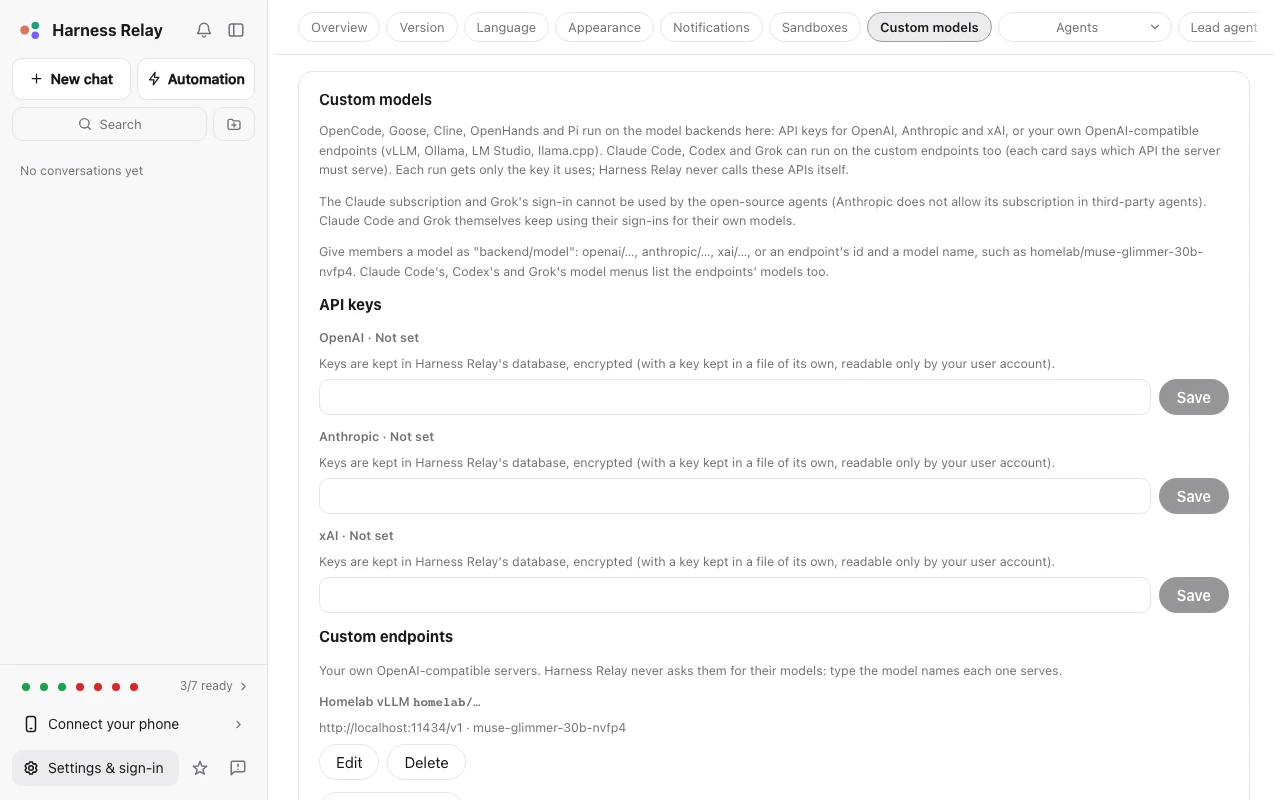
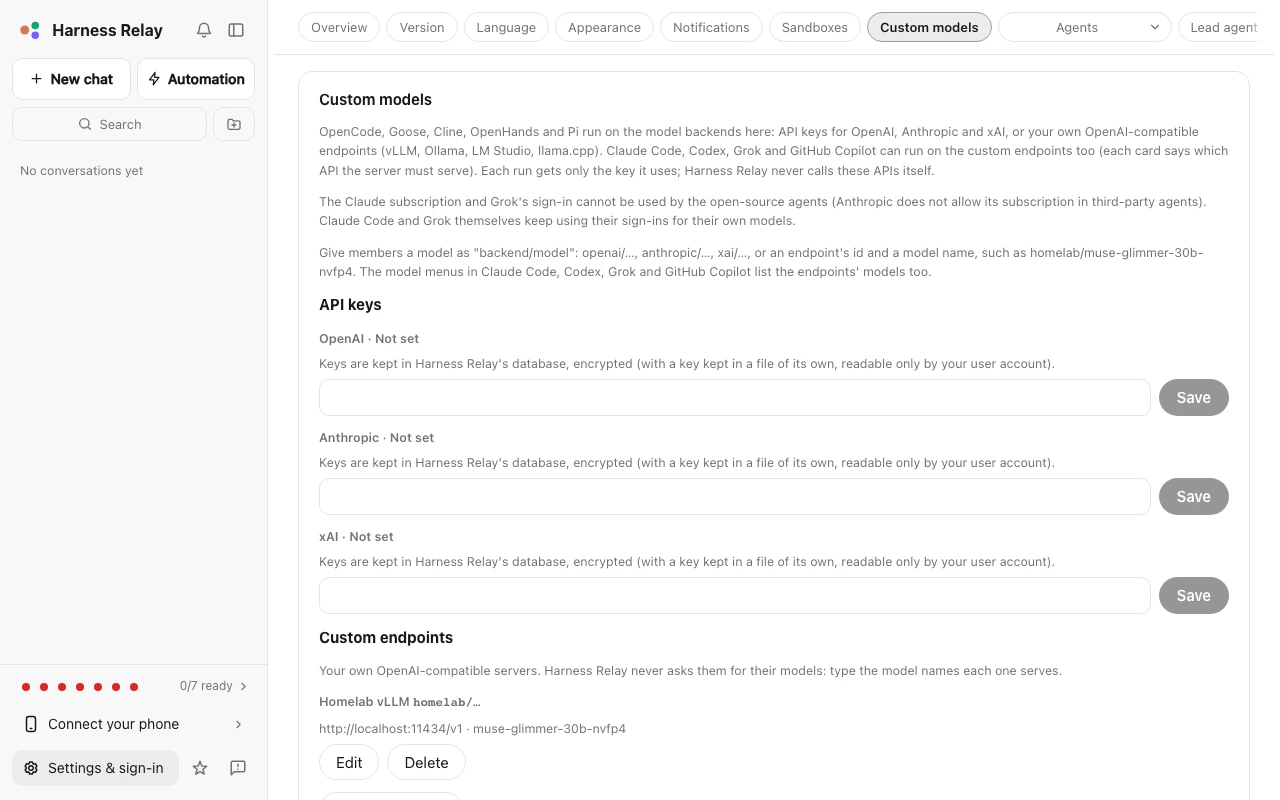
Keep documentation menus keyboard accessible and clarify who can use custom models

diff --git a/src/web/locales/zh-TW.ts b/src/web/locales/zh-TW.ts
@@ -2241,11 +2241,11 @@ export const zhTW = {
     /** Settings → Custom models. */
     backends: {
       title: '自定義模型',
-      hint: 'OpenCode、Goose、Cline、OpenHands 與 Pi 用這裡的模型來源執行：OpenAI、Anthropic、xAI 的 API key，或你自己的 OpenAI 相容端點（vLLM、Ollama、LM Studio、llama.cpp）。Claude Code、Codex 與 Grok 也能用這裡的自訂端點執行（各自需要的 API 寫在它們的卡片上）。每次執行只帶入它用的金鑰，Harness Relay 自己不會呼叫這些 API。',
+      hint: 'OpenCode、Goose、Cline、OpenHands 與 Pi 用這裡的模型來源執行：OpenAI、Anthropic、xAI 的 API key，或你自己的 OpenAI 相容端點（vLLM、Ollama、LM Studio、llama.cpp）。Claude Code、Codex、Grok 與 GitHub Copilot 也能用這裡的自訂端點執行（各自需要的 API 寫在它們的卡片上）。每次執行只帶入它用的金鑰，Harness Relay 自己不會呼叫這些 API。',
       noSubscription:
         'Claude 訂閱帳號與 Grok 的登入不能用在開源 agent（Anthropic 不允許在第三方 agent 中使用它的訂閱）。Claude Code 與 Grok 本身的模型照常使用它們的登入。',
       modelIds:
-        '成員的模型寫成「模型來源/模型」：openai/…、anthropic/…、xai/…，或端點的 id 加上模型名稱，例如 homelab/muse-glimmer-30b-nvfp4。Claude Code、Codex 與 Grok 的模型選單也會列出各端點的模型。',
+        '成員的模型寫成「模型來源/模型」：openai/…、anthropic/…、xai/…，或端點的 id 加上模型名稱，例如 homelab/muse-glimmer-30b-nvfp4。Claude Code、Codex、Grok 與 GitHub Copilot 的模型選單也會列出各端點的模型。',
       apiKeys: 'API key',
       notSet: '未設定',
       keySet: (masked: string) => `已設定 ${masked}`,
@@ -2271,7 +2271,7 @@ export const zhTW = {
       deleted: '已刪除',
       deletedEndpoints: '已刪除的端點',
       deletedEndpointsHint:
-        'Claude Code、Codex 與 Grok 的成員若還指定這些端點的模型（端點 id/…），這一輪會失敗，不會改送到 CLI 自己的服務。如果某個 CLI 自己的模型剛好以同樣的名稱開頭（例如你 Codex 設定裡的 qwen/…），忘掉這個端點就能照常使用那個模型。',
+        'Claude Code、Codex、Grok 與 GitHub Copilot 的成員若還指定這些端點的模型（端點 id/…），這一輪會失敗，不會改送到 CLI 自己的服務。如果某個 CLI 自己的模型剛好以同樣的名稱開頭（例如你 Codex 設定裡的 qwen/…），忘掉這個端點就能照常使用那個模型。',
       forgetDeleted: '忘掉',
       forgotten: (id: string) => `已忘掉「${id}」`,
       problems: {
@@ -2679,7 +2679,7 @@ export const zhTW = {
       },
       {
         title: '隨時調整',
-        body: '在設定頁可以切換介面語言（繁體中文 / English）、設定自定義模型（開源 agent 用它，Claude Code、Codex 與 Grok 也能用它的自訂端點）、更換首席助理、查看各 CLI 自己載入的 skill、MCP 與記憶、設定新對話的預設工作目錄、開關通知與提示音、管理語音輸入、agent 的 session 與分享的對話，也能重新觀看這份導覽。上方的區塊連結會帶你直接跳到每一項。',
+        body: '在設定頁可以切換介面語言（繁體中文 / English）、設定自定義模型（開源 agent 用它，Claude Code、Codex、Grok 與 GitHub Copilot 也能用它的自訂端點）、更換首席助理、查看各 CLI 自己載入的 skill、MCP 與記憶、設定新對話的預設工作目錄、開關通知與提示音、管理語音輸入、agent 的 session 與分享的對話，也能重新觀看這份導覽。上方的區塊連結會帶你直接跳到每一項。',
         points: [
           '最前面的「版本」：目前的版本；桌面版每小時檢查一次有沒有新版本，有的話會跳出一次對話框，可以從那裡、這張卡片或選單更新',
           '「設定與登入」那一行最右邊的對話框按鈕可以用電子郵件回報問題或建議，附上版本與系統資訊，也可以附上截圖',

diff --git a/src/web/locales/en.ts b/src/web/locales/en.ts
@@ -2248,11 +2248,11 @@ export const en: Messages = {
     },
     backends: {
       title: 'Custom models',
-      hint: 'OpenCode, Goose, Cline, OpenHands and Pi run on the model backends here: API keys for OpenAI, Anthropic and xAI, or your own OpenAI-compatible endpoints (vLLM, Ollama, LM Studio, llama.cpp). Claude Code, Codex and Grok can run on the custom endpoints too (each card says which API the server must serve). Each run gets only the key it uses; Harness Relay never calls these APIs itself.',
+      hint: 'OpenCode, Goose, Cline, OpenHands and Pi run on the model backends here: API keys for OpenAI, Anthropic and xAI, or your own OpenAI-compatible endpoints (vLLM, Ollama, LM Studio, llama.cpp). Claude Code, Codex, Grok and GitHub Copilot can run on the custom endpoints too (each card says which API the server must serve). Each run gets only the key it uses; Harness Relay never calls these APIs itself.',
       noSubscription:
         "The Claude subscription and Grok's sign-in cannot be used by the open-source agents (Anthropic does not allow its subscription in third-party agents). Claude Code and Grok themselves keep using their sign-ins for their own models.",
       modelIds:
-        "Give members a model as \"backend/model\": openai/…, anthropic/…, xai/…, or an endpoint's id and a model name, such as homelab/muse-glimmer-30b-nvfp4. Claude Code's, Codex's and Grok's model menus list the endpoints' models too.",
+        'Give members a model as "backend/model": openai/…, anthropic/…, xai/…, or an endpoint\'s id and a model name, such as homelab/muse-glimmer-30b-nvfp4. The model menus in Claude Code, Codex, Grok and GitHub Copilot list the endpoints\' models too.',
       apiKeys: 'API keys',
       notSet: 'Not set',
       keySet: (masked) => `Set: ${masked}`,
@@ -2280,7 +2280,7 @@ export const en: Messages = {
       deleted: 'Deleted',
       deletedEndpoints: 'Deleted endpoints',
       deletedEndpointsHint:
-        "Claude Code, Codex and Grok members still on a model of one of these (its id/…) fail their turn instead of reaching the CLI's own service. If a model of a CLI's own starts with the same name (a qwen/… of your Codex config, say), forget the endpoint to use that model again.",
+        "Claude Code, Codex, Grok and GitHub Copilot members still on a model of one of these (its id/…) fail their turn instead of reaching the CLI's own service. If a model of a CLI's own starts with the same name (a qwen/… of your Codex config, say), forget the endpoint to use that model again.",
       forgetDeleted: 'Forget',
       forgotten: (id) => `Forgot "${id}"`,
       problems: {
@@ -2692,7 +2692,7 @@ export const en: Messages = {
       },
       {
         title: 'Adjust any time',
-        body: 'In Settings you can switch the language (繁體中文 / English), set up custom models (the open-source agents run on them, and Claude Code, Codex and Grok on their custom endpoints too), change the lead agent, see the skills, MCP servers and memory each CLI loads by itself, set the default working directory for new chats, turn notifications and sound on or off, manage voice input, agent sessions and shared conversations, and replay this tour. The links at the top jump straight to each one.',
+        body: 'In Settings you can switch the language (繁體中文 / English), set up custom models (the open-source agents run on them, and Claude Code, Codex, Grok and GitHub Copilot on their custom endpoints too), change the lead agent, see the skills, MCP servers and memory each CLI loads by itself, set the default working directory for new chats, turn notifications and sound on or off, manage voice input, agent sessions and shared conversations, and replay this tour. The links at the top jump straight to each one.',
         points: [
           'Version, the first card: the version you have; the desktop app checks for a new one every hour, offers it once in a dialog, and updates from there, from the card or from its menu',
           'The speech-bubble button at the right end of the Settings & sign-in row reports a problem or an idea by email, with the version and system details, and screenshots if you like',

diff --git a/test/draft-availability.test.ts b/test/draft-availability.test.ts
@@ -12,7 +12,7 @@ import type { HostedAppChecks } from '../src/server/connectors/hostedApps';
 describe('apps that can be selected in a new draft', () => {
   const db = () => openDatabase(':memory:');
   let database: ReturnType<typeof db>, settings: SettingsStore, read: ReturnType<typeof draftAvailability>;
-  let loggedIn: boolean | null, installed: boolean;
+  let loggedIn: boolean | null, installed: boolean, usingStoredApiKey: boolean;
   const status = vi.fn<(provider: Provider) => Promise<ProviderStatus>>();
   const github = vi.fn<() => Promise<GithubConnection>>();
   const teams = vi.fn<() => Promise<TeamsConnection>>();
@@ -26,12 +26,13 @@ describe('apps that can be selected in a new draft', () => {
         bin: provider,
         auth,
         installed,
-        usingStoredApiKey: false,
-        accounts: [{ auth, id: '', label: '', usingStoredApiKey: false }],
+        usingStoredApiKey,
+        accounts: [{ auth, id: '', label: '', usingStoredApiKey }],
       };
     });
     installed = true;
     loggedIn = true;
+    usingStoredApiKey = false;
     database = db();
     settings = new SettingsStore(database);
     settings.tools.gatewayStatus = () => ({ available: true });
@@ -92,6 +93,23 @@ describe('apps that can be selected in a new draft', () => {
     settings.backends.deleteEndpoint('local');
     loggedIn = true;
     expect((await read('read-only', 'browser')).browser).not.toBe('ready');
+  });
+
+  it('requires Grok sign-in or its own API key even with an available custom endpoint', async () => {
+    settings.tools.browserStatus = () => ({ using: 'test-browser' });
+    settings.tools.update({ relayTools: { browser: ['grok'] } });
+    settings.backends.putEndpoint('local', { name: 'Local', baseUrl: 'http://127.0.0.1:8080/v1', models: ['demo'] });
+    settings.updateAccount('grok', '', { defaultModel: 'local/demo' });
+    const check = async () => (await read('full', 'browser')).browser;
+    loggedIn = false;
+    expect(await check()).toBe('needs-assistant');
+    loggedIn = true;
+    expect(await check()).toBe('ready');
+    loggedIn = false;
+    usingStoredApiKey = true;
+    expect(await check()).toBe('ready');
+    settings.backends.deleteEndpoint('local');
+    expect(await check()).toBe('needs-assistant');
   });
 
   it.each(['linux', 'win32'] as const)('respects open-agent sandbox support on %s for both gateway and MCP apps', async (platform) => {

diff --git a/site/zh-TW/docs/agents/index.html b/site/zh-TW/docs/agents/index.html
@@ -242,7 +242,7 @@
               <summary>開源 agent 與自定義模型</summary>
               <ol>
                 <li><a href="#open-agents" aria-label="開源 agent 與自定義模型概覽">概覽</a></li>
-                <li><a href="#agents-on-your-server">其他 agent 也能用你自己的伺服器</a></li>
+                <li><a href="#agents-on-your-server">其他 agent 也能用你自己的模型</a></li>
               </ol>
             </details>
           </li>
@@ -398,7 +398,7 @@
             開源 agent 的成員，模型寫成「模型來源/模型」：<code>openai/…</code>、<code>anthropic/…</code>、<code>xai/…</code>，或你的端點 id 加上模型，例如
             <code>homelab/muse-glimmer-30b-nvfp4</code>。agent 裝好、且至少設定一個模型來源後，它在設定頁的卡片會顯示<b>可使用</b>。
           </p>
-          <h3 id="agents-on-your-server">其他 agent 也能用你自己的伺服器</h3>
+          <h3 id="agents-on-your-server">其他 agent 也能用你自己的模型</h3>
           <p>
             Claude Code、Codex、Grok 與 Copilot 也能在你的自訂端點上執行：它們的模型選單會在自己的模型後面列出端點的模型。給成員選其中一個，那個 agent 就在你的伺服器上工作，而不是用它供應商的服務。你的伺服器要提供那個
             agent 用的 API；vLLM、Ollama、LM Studio 與 llama.cpp 都提供。這時 Claude Code、Codex 與 Copilot 不需要登入；Grok 仍需要它自己的登入。Cursor、Antigravity 與 Muse Code

diff --git a/e2e/specs/docs-navigation.spec.ts b/e2e/specs/docs-navigation.spec.ts
@@ -141,7 +141,9 @@ test('a tablet keeps a single contents row below search, scrolls its list, and s
   await expect(list).toBeHidden();
 });
 
-test('only focus on a disappearing contents control moves when tablet styles take effect before the resize callback', async ({ page }) => {
+test('only focus on a disappearing documentation control moves when tablet styles take effect before the resize callback', async ({
+  page,
+}) => {
   await page.addInitScript(() => {
     // Hold the site's breakpoint callbacks so Chromium can apply the real media styles and run a paint first.
     const listen = EventTarget.prototype.addEventListener;
@@ -188,6 +190,14 @@ test('only focus on a disappearing contents control moves when tablet styles tak
   await expect(list).toBeHidden();
   await resize(1440);
   await expect(list.locator('summary, a').first()).toBeFocused();
+
+  const currentPage = page.locator('.doc-nav-list [aria-current="page"]');
+  const pagesToggle = page.locator('[data-doc-nav-toggle]');
+  await currentPage.focus();
+  await resize(768);
+  await expect(pagesToggle).toBeFocused();
+  await resize(1440);
+  await expect(currentPage).toBeFocused();
 
   const search = page.getByRole('searchbox');
   await search.focus();

diff --git a/site/docs/agents/index.html b/site/docs/agents/index.html
@@ -247,7 +247,7 @@
               <summary>Open-source agents and custom models</summary>
               <ol>
                 <li><a href="#open-agents" aria-label="Open-source agents and custom models overview">Overview</a></li>
-                <li><a href="#agents-on-your-server">The other agents on your own server</a></li>
+                <li><a href="#agents-on-your-server">Other agents can use your own models</a></li>
               </ol>
             </details>
           </li>
@@ -430,7 +430,7 @@
             <code>homelab/muse-glimmer-30b-nvfp4</code>. Its card in Settings says <b>Ready</b> once the agent is installed and at least one
             backend is set up.
           </p>
-          <h3 id="agents-on-your-server">The other agents on your own server</h3>
+          <h3 id="agents-on-your-server">Other agents can use your own models</h3>
           <p>
             Claude Code, Codex, Grok and Copilot can run on your custom endpoints too: their model menus list your endpoints'
             models after their own. Give a member one of them, and that agent works on your server instead of its maker's

diff --git a/src/server/connectors/draftAvailability.ts b/src/server/connectors/draftAvailability.ts
@@ -71,16 +71,18 @@ export function draftAvailability(
         if (!(await sandboxReady)) return false;
       }
       return configured.some((a) => {
+        const signedIn = a.auth.loggedIn === true || a.usingStoredApiKey;
         if (isEndpointCli(p)) {
           const model = parseBackendModel(settings.defaultModel(p, a.id));
           if (model) {
             const backends = settings.backends.view();
             const endpoint = backends.endpoints.find((e) => e.id === model.backend);
-            if (endpoint) return !endpoint.keyUnreadable;
+            // Grok also needs its own sign-in or API key to start, even when its model runs locally.
+            if (endpoint) return !endpoint.keyUnreadable && (p !== 'grok' || signedIn);
             if (backends.deletedEndpoints.includes(model.backend)) return false;
           }
         }
-        return a.auth.loggedIn === true || a.usingStoredApiKey;
+        return signedIn;
       });
     };
     const assistant = async (list: Provider[]): Promise<DraftAppState> => {

diff --git a/site/assets/site.js b/site/assets/site.js
@@ -367,12 +367,16 @@ if (docNav && docNavToggle) {
     if (opening) docNavToggle.focus({ preventScroll: true });
     setOpen(opening);
   });
-  compactDocs.addEventListener('change', () => {
+  const resize = () => {
     const focus = document.activeElement;
+    // Capture focus before changing which navigation controls are visible.
+    docNav.classList.toggle('is-compact', compactDocs.matches);
     setOpen(false);
     if (compactDocs.matches && focus?.closest('.doc-nav-list')) docNavToggle.focus({ preventScroll: true });
     if (!compactDocs.matches && focus === docNavToggle) docNav.querySelector('[aria-current="page"]')?.focus({ preventScroll: true });
-  });
+  };
+  resize();
+  compactDocs.addEventListener('change', resize);
   document.addEventListener('focusin', (event) => {
     if (!docNav.contains(event.target) || event.target.closest('[data-doc-search]')) setOpen(false);
   });

diff --git a/site/assets/site.css b/site/assets/site.css
@@ -3155,8 +3155,13 @@ body:has(.cs-dialog[open]) {
   font-size: 14px;
 }
 
-.doc-nav-toggle {
+.doc-nav-toggle,
+.doc-nav.is-compact:not(.is-open) .doc-nav-list {
   display: none;
+}
+
+.doc-nav.is-compact .doc-nav-toggle {
+  display: flex;
 }
 
 .doc-nav-title {
@@ -3886,7 +3891,6 @@ html:has(.doc-toc) {
   }
 
   .js .doc-nav-toggle {
-    display: flex;
     align-items: center;
     gap: 10px;
     flex: 1 1 0;
@@ -3924,10 +3928,6 @@ html:has(.doc-toc) {
 
   .doc-nav.is-open .doc-nav-toggle svg {
     transform: rotate(180deg);
-  }
-
-  .js .doc-nav:not(.is-open) .doc-nav-list {
-    display: none;
   }
 
   .js .doc-nav-list {

diff --git a/test/tour.test.ts b/test/tour.test.ts
@@ -108,6 +108,6 @@ describe('guided tour', () => {
     // The steps changed? Raise TOUR_VERSION in src/web/tour.ts so people who finished the tour
     // see the updated steps, then update both values here. For a change not worth showing again (a typo), update only the
     // fingerprint.
-    expect({ version: TOUR_VERSION, fingerprint }).toEqual({ version: 35, fingerprint: 'c12d88502df8' });
+    expect({ version: TOUR_VERSION, fingerprint }).toEqual({ version: 35, fingerprint: 'f9fb3d5a821e' });
   });
 });
